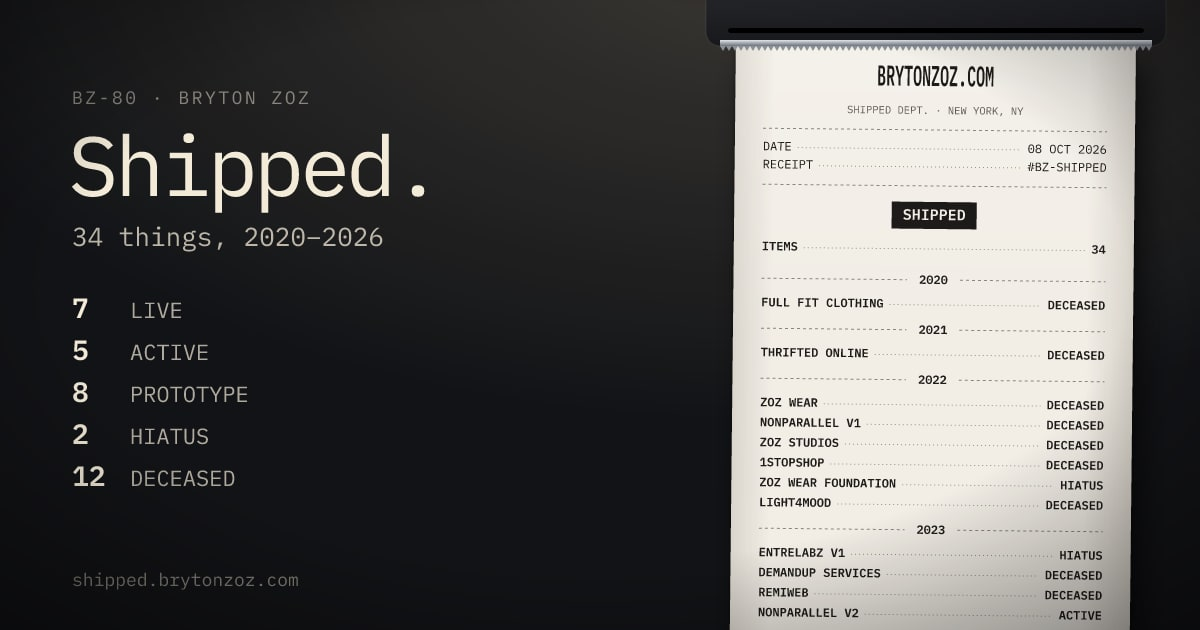
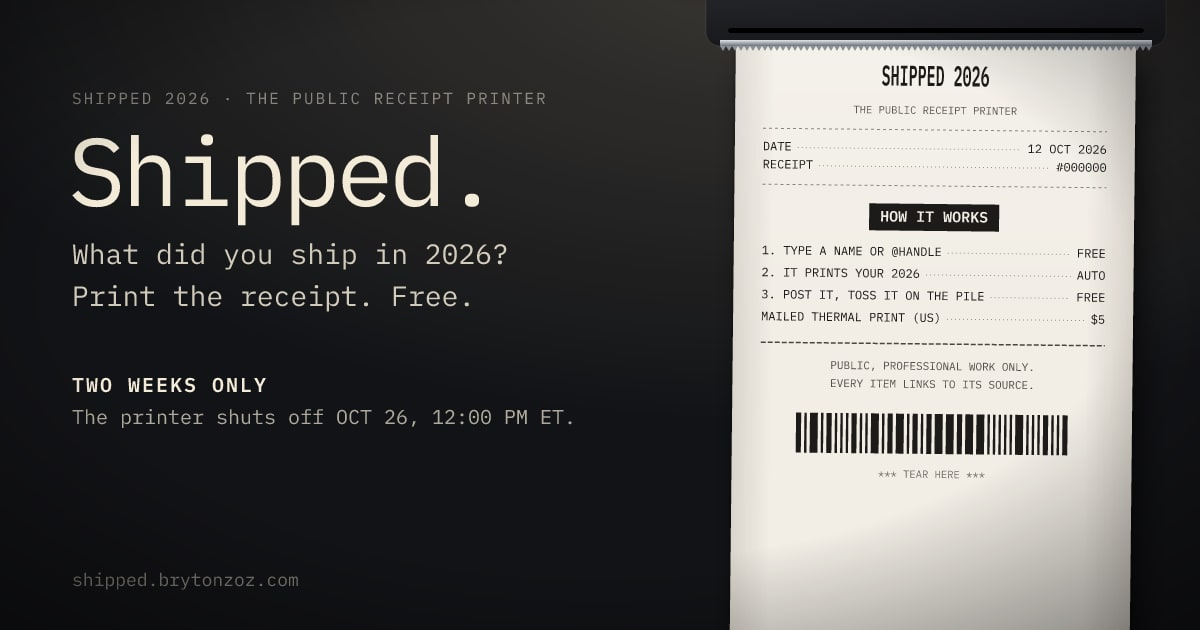
Shipped share image: event pitch and how-it-works slip instead of Bryton's receipt

diff --git a/lib/receipt-svg.ts b/lib/receipt-svg.ts
@@ -1,6 +1,5 @@
-// Thermal-receipt images as SVG, rendered by resvg with IBM Plex Mono (worker/fonts/): the master
-// /shipped/ card by scripts/build-shipped-og.mjs at build time; Shipped-in-<year> share images and
-// supporter receipts by the Worker. Self-contained (no imports) so Node can load it directly.
+// Thermal-receipt images as SVG, rendered by resvg with IBM Plex Mono (worker/fonts/): the home page
+// card by scripts/build-shipped-og.mjs at build time; Shipped-in-<year> share images by the Worker. Self-contained (no imports) so Node can load it directly.
 // Drawn like a photo of the page: hand-torn paper with a soft shadow and curled edges on a dark counter
 // under one warm lamp, set like the receipt on the site (double-height store name, one inverse band).
 
@@ -170,101 +169,48 @@ function header(c: number, date: string, number: string) {
   ];
 }
 
-// ---- The master /shipped/ card -------------------------------------------------------------------------
+// ---- The home page card -----------------------------------------------------------------------------
 
 export type MasterOg = {
+  year: number;
   date: string;
-  items: number;
-  /** "2020–2026" */
-  span: string | null;
-  counts: OgLine[];
-  groups: { label: string; items: { name: string; status: string }[] }[];
-};
-
-function yearDivider(y: number, label: string) {
-  const c = PAPER_W / 2;
-  const half = (charW(12) * label.length) / 2 + 12;
-  return [
-    `<line x1="28" y1="${y - 4}" x2="${c - half}" y2="${y - 4}" stroke="${INK}" stroke-width="1" stroke-dasharray="3 3" opacity="0.5"/>`,
-    txt(c, y, label, 12, { weight: 600, anchor: 'middle' }),
-    `<line x1="${c + half}" y1="${y - 4}" x2="${PAPER_W - 28}" y2="${y - 4}" stroke="${INK}" stroke-width="1" stroke-dasharray="3 3" opacity="0.5"/>`,
-  ].join('');
-}
-
-/** The /shipped/ card: the totals on the left, Bryton's receipt hanging from the printer on the right. */
-export function masterReceiptSvg(data: MasterOg): string {
-  const left: string[] = [
-    txt(72, 104, 'BZ-80 · BRYTON ZOZ', 18, { spacing: 2.5, fill: CREAM, opacity: 0.5 }),
-    txt(68, 196, 'Shipped.', 84, { spacing: -4, fill: CREAM }),
-    txt(72, 246, `${data.items} things${data.span ? `, ${data.span}` : ''}`, 26, { fill: CREAM, opacity: 0.75 }),
-  ];
-  let y = 318;
-  for (const line of data.counts) {
-    left.push(txt(72, y, line.value.padStart(2, ' '), 28, { weight: 600, fill: CREAM }), txt(130, y, line.label, 22, { fill: CREAM, opacity: 0.7 }));
-    y += 42;
-  }
-  left.push(txt(72, 586, 'shipped.brytonzoz.com', 18, { fill: CREAM, opacity: 0.5 }));
-
-  const c = PAPER_W / 2;
-  const body: string[] = [...header(c, data.date, 'BZ-SHIPPED'), inverse(c, 180, 'SHIPPED', 15), leader(212, 'ITEMS', String(data.items), 12)];
-  let py = 244;
-  for (const group of data.groups) {
-    if (py > 640) break;
-    body.push(yearDivider(py, group.label));
-    py += 24;
-    for (const item of group.items) {
-      if (py > 640) break;
-      body.push(leader(py, item.name.toUpperCase(), item.status, 12));
-      py += 20;
-    }
-    py += 6;
-  }
-  return scene(1200, 630, `${sheet(640, body.join(''), 'translate(736 40) rotate(0.6 200 0)', 'master', { open: true, soft: true })}${printerLip(706, 40, 460)}${left.join('')}`);
-}
-
-// ---- Supporter receipt ------------------------------------------------------------------------------------
-
-export type SupporterOg = {
-  number: string;
-  date: string;
-  text: string;
-  link: string | null;
-  details: OgLine[];
-  charges: OgLine[];
-  total: string;
-  status: string;
+  /** "OCT 26, 12:00 PM ET" */
+  closes: string;
+  url: string;
   barcode: number[];
 };
 
-/** The supporter's own receipt (portrait, 2× for a sharp download): their shout-out, what they paid. */
-export function supporterReceiptSvg(data: SupporterOg): string {
+/** The home page link preview: the pitch on the left, the "how it works" slip hanging from the printer on the right. */
+export function masterReceiptSvg(data: MasterOg): string {
+  const left: string[] = [
+    txt(72, 104, `SHIPPED ${data.year} · THE PUBLIC RECEIPT PRINTER`, 16, { spacing: 2, fill: CREAM, opacity: 0.5 }),
+    txt(68, 206, 'Shipped.', 96, { spacing: -4, fill: CREAM }),
+    txt(72, 264, `What did you ship in ${data.year}?`, 28, { fill: CREAM, opacity: 0.85 }),
+    txt(72, 306, 'Print the receipt. Free.', 28, { fill: CREAM, opacity: 0.85 }),
+    txt(72, 392, 'TWO WEEKS ONLY', 20, { weight: 600, spacing: 2, fill: CREAM }),
+    txt(72, 424, `The printer shuts off ${data.closes}.`, 20, { fill: CREAM, opacity: 0.7 }),
+    txt(72, 586, data.url, 18, { fill: CREAM, opacity: 0.5 }),
+  ];
+
   const c = PAPER_W / 2;
-  const body: string[] = [...header(c, data.date, data.number), inverse(c, 180, 'SUPPORTER RECEIPT', 13), txt(c, 212, 'YOUR SHOUT-OUT', 10.5, { anchor: 'middle', opacity: 0.65 })];
-  body.push(tall(c, 244, fit(data.text, 30), 14, { anchor: 'middle' }));
-  let y = 270;
-  if (data.link) {
-    body.push(txt(c, y, fit(data.link, 44), 11, { anchor: 'middle', opacity: 0.7 }));
-    y += 8;
+  const body: string[] = [...header(c, data.date, '000000'), inverse(c, 182, 'HOW IT WORKS', 15)];
+  let y = 216;
+  for (const [label, value] of [
+    ['1. TYPE A NAME OR @HANDLE', 'FREE'],
+    [`2. IT PRINTS YOUR ${data.year}`, 'AUTO'],
+    ['3. POST IT, TOSS IT ON THE PILE', 'FREE'],
+    ['MAILED THERMAL PRINT (US)', '$5'],
+  ]) {
+    body.push(leader(y, label, value, 12, 500));
+    y += 22;
   }
-  y += 20;
-  for (const line of data.details) {
-    body.push(leader(y, line.label, line.value, 12, 500));
-    y += 20;
-  }
-  body.push(rule(y - 4));
-  y += 22;
-  for (const line of data.charges) {
-    body.push(leader(y, line.label, line.value, 12, 500));
-    y += 20;
-  }
-  body.push(rule(y - 4, true), leader(y + 20, 'TOTAL', data.total, 16), rule(y + 34, true));
-  y += 64;
-  body.push(txt(c, y, data.status, 11, { weight: 600, anchor: 'middle' }));
-  body.push(txt(c, y + 20, 'THANK YOU FOR SUPPORTING.', 11, { anchor: 'middle', opacity: 0.7 }));
-  body.push(barcode(64, y + 40, 272, 34, data.barcode));
-  body.push(txt(c, y + 96, 'SHIPPED.BRYTONZOZ.COM', 10, { anchor: 'middle', opacity: 0.6 }));
-  const height = y + 126;
-  return scene(PAPER_W + 120, height + 120, sheet(height, body.join(''), 'translate(60 50) rotate(-0.8 200 0)', `supporter:${data.number}`), 2);
+  body.push(rule(y, true));
+  y += 26;
+  body.push(txt(c, y, 'PUBLIC, PROFESSIONAL WORK ONLY.', 11, { anchor: 'middle', opacity: 0.75 }));
+  body.push(txt(c, y + 18, 'EVERY ITEM LINKS TO ITS SOURCE.', 11, { anchor: 'middle', opacity: 0.75 }));
+  body.push(barcode(64, y + 44, 272, 40, data.barcode));
+  body.push(txt(c, y + 108, '*** TEAR HERE ***', 10.5, { anchor: 'middle', opacity: 0.6 }));
+  return scene(1200, 630, `${sheet(640, body.join(''), 'translate(736 40) rotate(0.6 200 0)', 'master', { open: true, soft: true })}${printerLip(706, 40, 460)}${left.join('')}`);
 }
 
 // ---- Shipped in <year> ---------------------------------------------------------------------------
